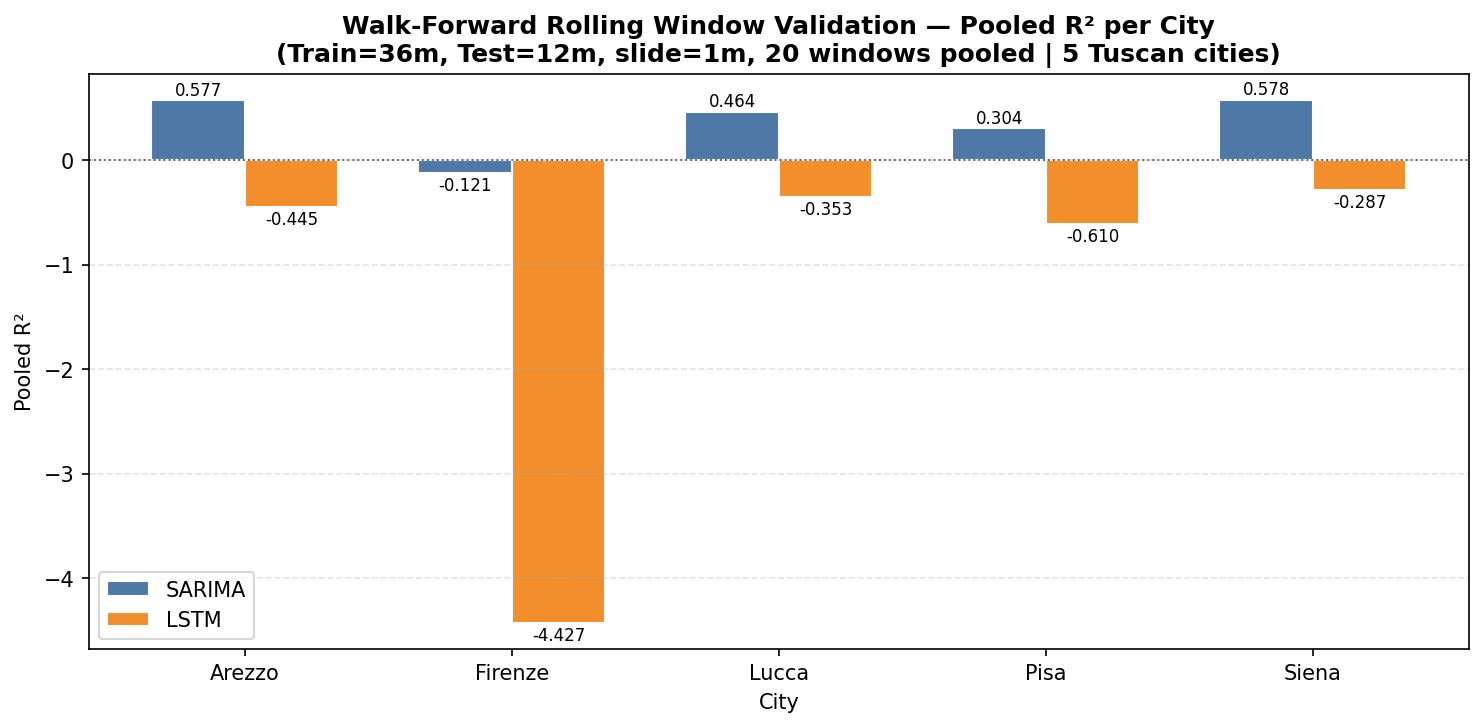
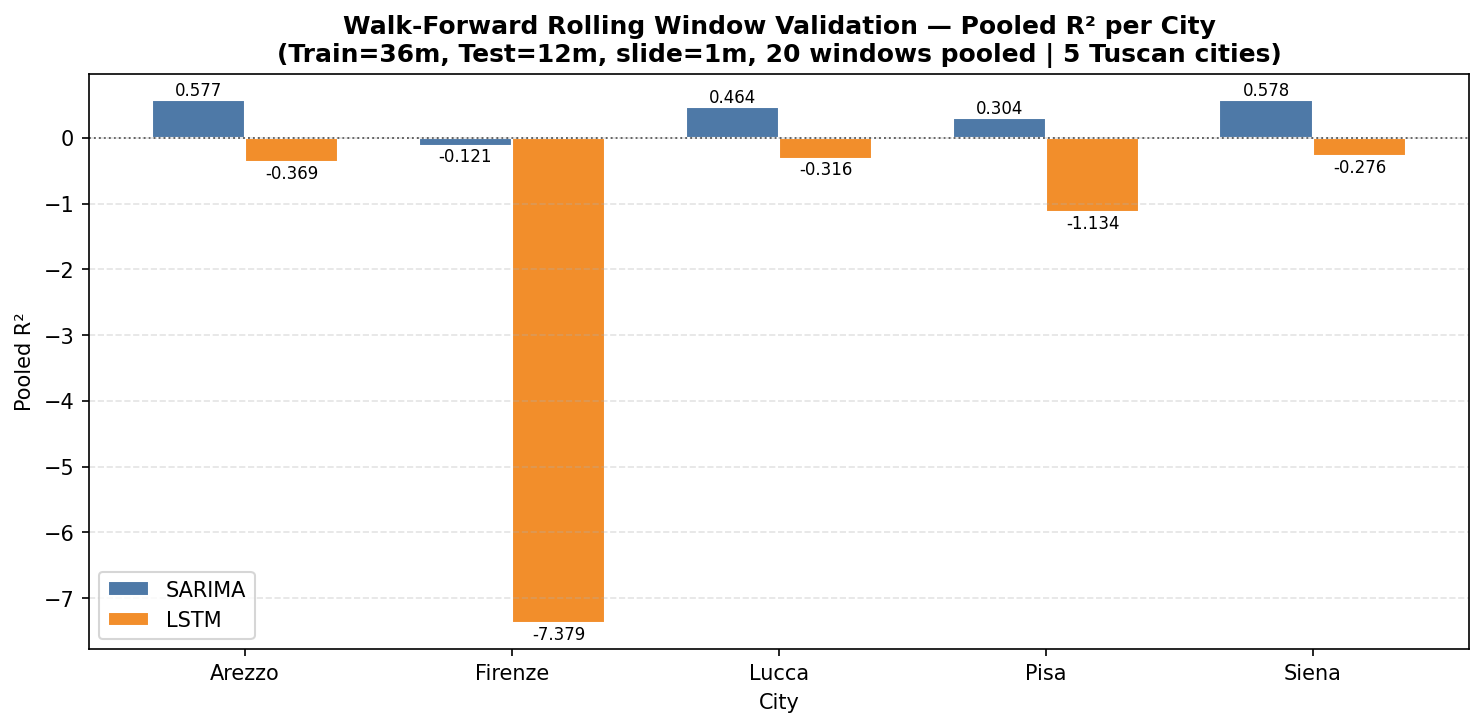
Full reproducibility: fixed random seed, regenerate all Phase 4 outputs

diff --git a/phase4_rolling_window.py b/phase4_rolling_window.py
@@ -1,3 +1,7 @@
+import os
+os.environ["PYTHONHASHSEED"] = "42"
+os.environ["TF_DETERMINISTIC_OPS"] = "1"
+
 """
 BSP4 Phase 4: Walk-Forward Rolling Window Validation
 - Train window: 36 months  |  Test window: 12 months  |  Slide: 1 month
@@ -24,6 +28,13 @@ import tensorflow as tf
 from tensorflow.keras.models import Sequential
 from tensorflow.keras.layers import LSTM, Dense, Dropout
 from tensorflow.keras.callbacks import EarlyStopping
+
+import random
+random.seed(42)
+import numpy as np
+np.random.seed(42)
+import tensorflow as tf
+tf.random.set_seed(42)
 
 warnings.filterwarnings("ignore")
 os.environ["TF_CPP_MIN_LOG_LEVEL"] = "3"
